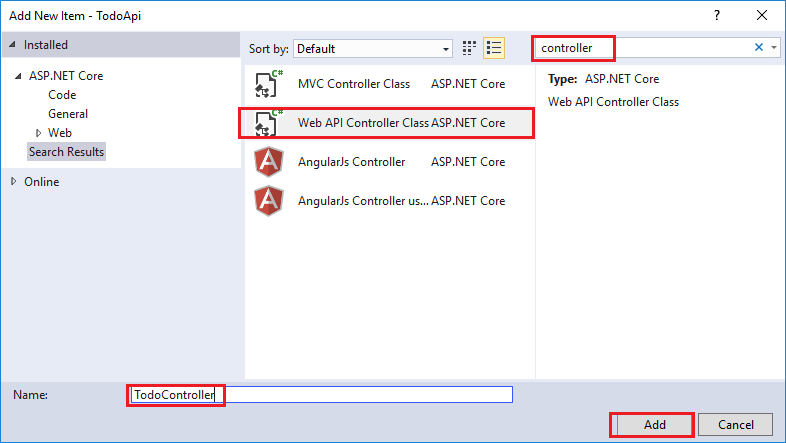
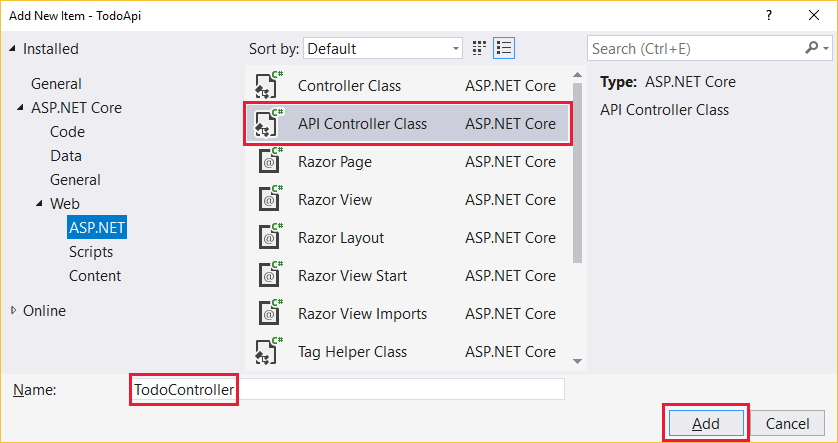
Update old screenshot

diff --git a/aspnetcore/tutorials/first-web-api.md b/aspnetcore/tutorials/first-web-api.md
@@ -81,7 +81,7 @@ Replace the class with the following code:
 
 ### Add a controller
 
-In Solution Explorer, right-click the *Controllers* folder. Select **Add** > **New Item**. In the **Add New Item** dialog, select the **Web API Controller Class** template. Name the class *TodoController*.
+In Solution Explorer, right-click the *Controllers* folder. Select **Add** > **New Item**. In the **Add New Item** dialog, select the **API Controller Class** template. Name the class *TodoController*, and click **Add**.
 
 ![Add new Item dialog with controller in search box and web API controller selected](first-web-api/_static/new_controller.png)
 
